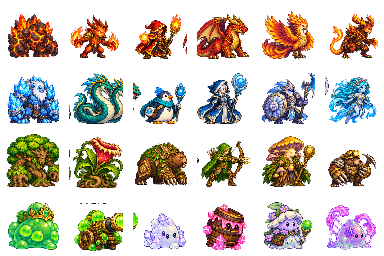
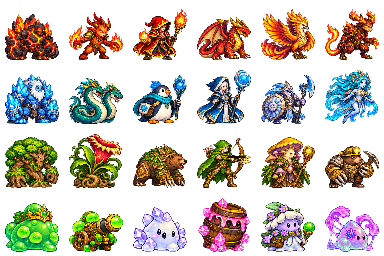
Finish upgrade art extraction and browser/native release acceptance

diff --git a/tools/validate_art.py b/tools/validate_art.py
@@ -56,7 +56,7 @@ for group, expected in [('menu_fire', {str(index) for index in range(6)}),
         assert (x, y) not in seen, name
         seen.add((x, y))
         assert x >= 0 and y >= 0 and (x + 1) * atlas['cell_size'][0] <= width and (y + 1) * atlas['cell_size'][1] <= height, name
-print(f"Detailed art OK: {len(atlas_manifest['commanders']['frames'])} Commander frames, {len(atlas_manifest['units']['frames'])} roster frames, RGBA textures and unique regions")
+print(f"Detailed art OK: {len(atlas_manifest['commanders']['frames'])} Commander frames, {len(atlas_manifest['units']['frames'])} roster frames, {len(atlas_manifest['upgraded_units']['frames'])} Lv. 2 frames, RGBA textures and unique regions")
 
 scene = atlas_manifest['menu_scene']
 with (root / scene['texture'].removeprefix('res://')).open('rb') as stream:

diff --git a/assets/pixel/UPGRADE_ART.md b/assets/pixel/UPGRADE_ART.md
@@ -2,9 +2,9 @@
 
 Original project artwork generated with the built-in image-generation tool on 2026-10-24, using the existing project-owned `roster-v5.png` as the identity/style reference. No paid external service or third-party character artwork was added.
 
-The final game asset is `roster-upgrades-v1.png`: twenty-four 64×64 cells in six columns/four rows, ordered by Fire, Water, Earth and Slime, then stable unit number. `tools/pack_upgrade_art.gd` extracts the generated six-by-four source cells and scales them with nearest-neighbor sampling. Existing base-unit atlas pixels are unchanged. The upgraded atlas is consumed by card portraits, public rosters and current replay actors, including death and revival.
+The final game asset is `roster-upgrades-v1.png`: twenty-four 64×64 cells in six columns/four rows, ordered by Fire, Water, Earth and Slime, then stable unit number. `tools/pack_upgrade_art.gd` extracts the generated complete sprite silhouettes and scales them with nearest-neighbor sampling. Existing base-unit atlas pixels are unchanged. The upgraded atlas is consumed by card portraits, public rosters and current replay actors, including death and revival.
 
-Both prompts are preserved below. The second pass improves transparent isolation. Source character designs remain separate from simulation rules and tuning.
+All generation/edit prompts are preserved below. Later passes improve transparent isolation and spacing. Source character designs remain separate from simulation rules and tuning.
 
 ## Initial prompt
 
@@ -56,3 +56,11 @@ Edit target is the supplied 6-column by 4-row pixel fantasy unit atlas. Keep the
 REMOVE EVERY COLORED BACKGROUND RECTANGLE AND EVERY COLORED BACKGROUND HALO. Set all empty space around each character to actual alpha 0, including between limbs, wings, staffs and vines. No ambient glow or cast shadow outside a character silhouette. Only the character pixels should be visible against a neutral checkerboard. Fully opaque solid sprite interiors, crisp transparent edges. Do not preserve the colored red/blue/green/lavender backdrop or its gradients as translucent fog.
 Preserve exactly six columns and four rows at 1536x1024. Fit each complete character inside the middle 200x200 pixels of its own 256x256 cell, with at least 24px truly transparent padding on every side. No sprite clipping, no cross-cell overlap, no text, no labels, no decorations or ground. The actual transparent channel must contain clean zero-alpha empty margins; never draw a checkerboard into the image. Preserve all original character design details.
 ```
+
+## Final spacing pass and atlas extraction
+
+```text
+Use case: game-sprite-sheet, precise-object-edit. Re-layout the supplied 24-character transparent pixel fantasy upgrade atlas into a STRICT 6-column by 4-row grid at 1536 by 1024. Every cell is 256 by 256. Preserve these exact 24 designs, order and pixel fantasy style, including two heads on the teal serpent, white Slime Ball, green Slime Giant and Cannon, pink Barrel. CRITICAL PRODUCTION FIX: every complete character must fit within the central 192 by 192 square of its own cell (32-pixel zero-alpha margin on ALL FOUR SIDES). Shrink characters uniformly to accomplish this. Do not let wings, serpent heads, tails, leaves, weapons or slimes cross any cell boundary. The prior image has neighboring fragments crossing into the Penguin, Nymph, Slime Ball and Sorcerer cells; remove those fragments from the wrong cells and keep each complete character in its own cell. No detached decoration, no tiny fragments, no glow haze, no ground, no background panels, no letters, no text, no grid lines. Crisp opaque sprite interiors and transparent alpha-zero empty space. Keep all 24 figures visually distinct and recognizable: first row Fire (golem, imp, sorcerer, dragon, phoenix, spriggan), second Water (ice giant, two-headed serpent, penguin, wizard, shell guard, nymph), third Earth (tree, pitcher plant, armored bear, double-arrow archer, mushroom sage, mining mole), fourth Slime (green crowned giant, green brass cannon, white crystal ball, pink barrel, lavender medic, sticky pink-violet slime).
+```
+
+Native review found that source silhouettes still crossed nominal cell borders. `tools/pack_upgrade_art.gd` now extracts the 24 complete connected sprite silhouettes, preserving their pixels, then scales and centers each in its own 64×64 transparent game cell. This prevents a neighboring tail, wing or weapon fragment from appearing in another portrait. The normal roster atlas remains unchanged. Native comparisons cover all 24 original/Lv. 2 pairs, the forge, compact larger-text actions, four upgraded battles and inspection.

diff --git a/docs/DEVELOPMENT_STATUS.md b/docs/DEVELOPMENT_STATUS.md
@@ -18,7 +18,12 @@ Verify the actual branch, tree and GitHub checks before resuming. [Earlier histo
 - Checkpoint 1: data-defined 24-unit catalog, validated purchase ledger/profile migration, exact-once shared XP and unchanged mastery. Purchases require unlocked units and no pending adventure; no workbook edit.
 - Checkpoint 2: generic combat hooks for the reference abilities, bounded stacking/splitting/links, fair AI and frozen/recoverable adventure upgrades. Preserve baseline replays and optional paths.
 - Checkpoint 3: pixel fantasy upgrade forge, card/inspection previews, actual browser purchase/reload, focused mechanics/persistence checks and bounded native/paired samples; then full Actions release gate and served-pack verification.
-- Checkpoint 1 implemented: 24-unit catalog with validated generic effects, pure transformer and schema-4 paid ledger/derived shared balance; old schema-3 profiles retain XP without receiving legacy schema-1/2 card grants. Content validation and the new upgrade progression suite pass; initial reserved-word/type-inference parser issues were corrected before passing. The existing Commander progression suite also passes. Checkpoint 2 now implements all 24 mechanics, bounded stacks/splits/heal overlap/links, real delayed twin hits, expiring modifiers, equal AI options and frozen/validated recovery. New combat and recovery suites pass; base combat and Commander-path checks pass. A separate 24-unit Lv. 2 atlas was generated and connected to cards/rosters/replay/death/inspection, with a transparent-isolation pass and preserved prompt provenance. The forge UI is implemented. Its focused presentation suite passes real 200/400-XP button purchases, immediate portrait refresh, mastery preservation, lock/shortfall/pending feedback, compact larger-text keyboard scrolling, all 24 distinct art regions and exact field/SFX tracks. Native captures confirm the forge layout; a few cross-cell sprite fragments were observed and need cleanup. Browser IndexedDB purchase/reload and the complete release gate remain pending. Keep PvP Coming Soon, campaign KIV, free hosting, existing developer collection access, Sudden Death rules, prelude, 1× and no skip.
+- Saved checkpoints: wallet/catalog `df82708b3a0b2d329108f601ede58a88a6ad09c7`, mechanics/recovery/art `b60a0ee12ca844b5d9c46ad9f81b9a1eb3dac4a5`, forge/purchase UI `ee7227b7b13c4c62e57e0c650bfeddc42658a26b`. Current work completes visual cleanup, browser acceptance and release coverage.
+- Passing focused checks: data/art/presentation validators, script import, upgrade progression/combat/recovery/presentation; existing combat, paths, Slime, assassins, match recovery, battle presentation, accessibility, mastery presentation and fantasy interface. A JSON-reloaded wallet receipt integer mismatch and a script-mode eager UI dependency were corrected before passing.
+- Native acceptance: 14 new views pass, with all 24 original/Lv. 2 comparisons, actual forge purchase/shortfall, compact larger-text keyboard actions, four legal upgraded battles and inspection. Final sprite extraction removes observed cross-cell fragments. Base atlas unchanged.
+- Bounded paired sample: eight synthetic adventures completed, no time-limit draws; 30 maximum bodies in these samples. Separate full-recruitment upgraded mirrors pass limits and numeric checks. This is not a final balance or human retention verdict; see `docs/UNIT_UPGRADES.md`.
+- Pending: full Actions source/exported-pack/browser/container/native gate, merge, automatic Pages deployment and actual public PCK verification. Browser driver now includes a real Rewards → forge → 200-XP purchase, IndexedDB reload and Continue with exact mastery/wallet/frozen AI collection. Keep PvP Coming Soon, campaign KIV, free hosting, developer collection access, existing Sudden Death rules, prelude, 1× and no skip.
+
 
 ## Working conventions
 

diff --git a/docs/UNIT_UPGRADES.md b/docs/UNIT_UPGRADES.md
@@ -44,3 +44,16 @@ All original abilities remain unless the description explicitly replaces a param
 The purchased collection freezes at adventure start and is supplied equally to both PvAI sides. Runtime transformations copy base content and apply once before optional Commander paths. Old saved adventures remain base-unit adventures, and recorded upgrades/powers/paths reconstruct without rescoring hearts or currency. Private PvP retains base units while its public entry remains Coming Soon.
 
 All 24 units have separate Lv. 2 sprite artwork in cards, rosters, living/dead/revived replay actors and inspection. The normal atlas stays unchanged. Root vines, elemental pulses, persistent fire/corrosion/slowing/healing fields and ability sounds read recorded combat evidence. Ground fields honor exact event creation, replacement and expiry; they never appear early or extend the battle after army elimination. No effect or team text is added over units. Art provenance and prompts are in [UPGRADE_ART.md](../assets/pixel/UPGRADE_ART.md).
+
+## Bounded synthetic comparison
+
+`tools/compare_unit_upgrades.gd` ran four paired AI-vs-AI adventures with fixed seeds and the same fully unlocked collection on both sides. The paired variant grants all 24 Lv. 2 options equally. Fire, Earth and Slime use their four starters; Water uses a documented mixed roster. Each adventure stops at 16 rounds. Redraw and Commander paths are off. These are eight synthetic adventures and zero human playtests, so they do not establish unit rankings, player retention or final balance.
+
+| Commander | Base rounds / combat | Lv. 2 rounds / combat | Outcome, both variants |
+| --- | --- | --- | --- |
+| Earth | 5 / 286.2s | 4 / 172.4s | Win |
+| Fire | 6 / 69.3s | 6 / 45.4s | Win |
+| Slime | 6 / 196.7s | 7 / 104.3s | Loss |
+| Water mixed | 6 / 217.2s | 6 / 149.3s | Loss |
+
+All eight completed without a time-limit draw; this small sample does not prove late-game stalls are eliminated. Maximum recorded bodies were 30. The slowest native battle simulation in this container was 531.01 ms (base Earth), and the slowest upgraded case 482.74 ms (Earth); these are diagnostic timings, not browser performance guarantees. Separate regression cases cover all 24 effects, full-recruitment Lv. 2 mirrors, split generations, revival and overlap bounds. Keep the approved Sudden Death rules; human play will inform later tuning.

diff --git a/docs/CHANGELOG.md b/docs/CHANGELOG.md
@@ -6,6 +6,7 @@
 - Add a shared spendable XP ledger: first permanent upgrade 200 XP, later upgrades 400; spending preserves lifetime mastery and ownership. Existing XP is available.
 - Increase completed-loss rewards to 50 XP; wins remain 100 and forfeits zero. Purchases validate quotes, locks, funds and persistence before charging.
 - Implement the reference abilities with bounded proc/stack/split/link behavior, expiring roots/fields and after-DEF twin-hit tuning. Freeze purchased upgrades per adventure and preserve equal AI options and recoverable replays.
+- Add a shared, scrollable pixel fantasy forge with before/after artwork, exact ability/cost previews and purchase/save feedback; refresh owned cards immediately. Test actual browser purchases and IndexedDB reload through Continue.
 - Give all 24 units distinct original Lv. 2 pixel sprites, including a two-headed Sea Serpent, retained in battle, death/revival and inspection; keep base artwork unchanged.
 
 ## v0.19.0 — Sudden Death growth
